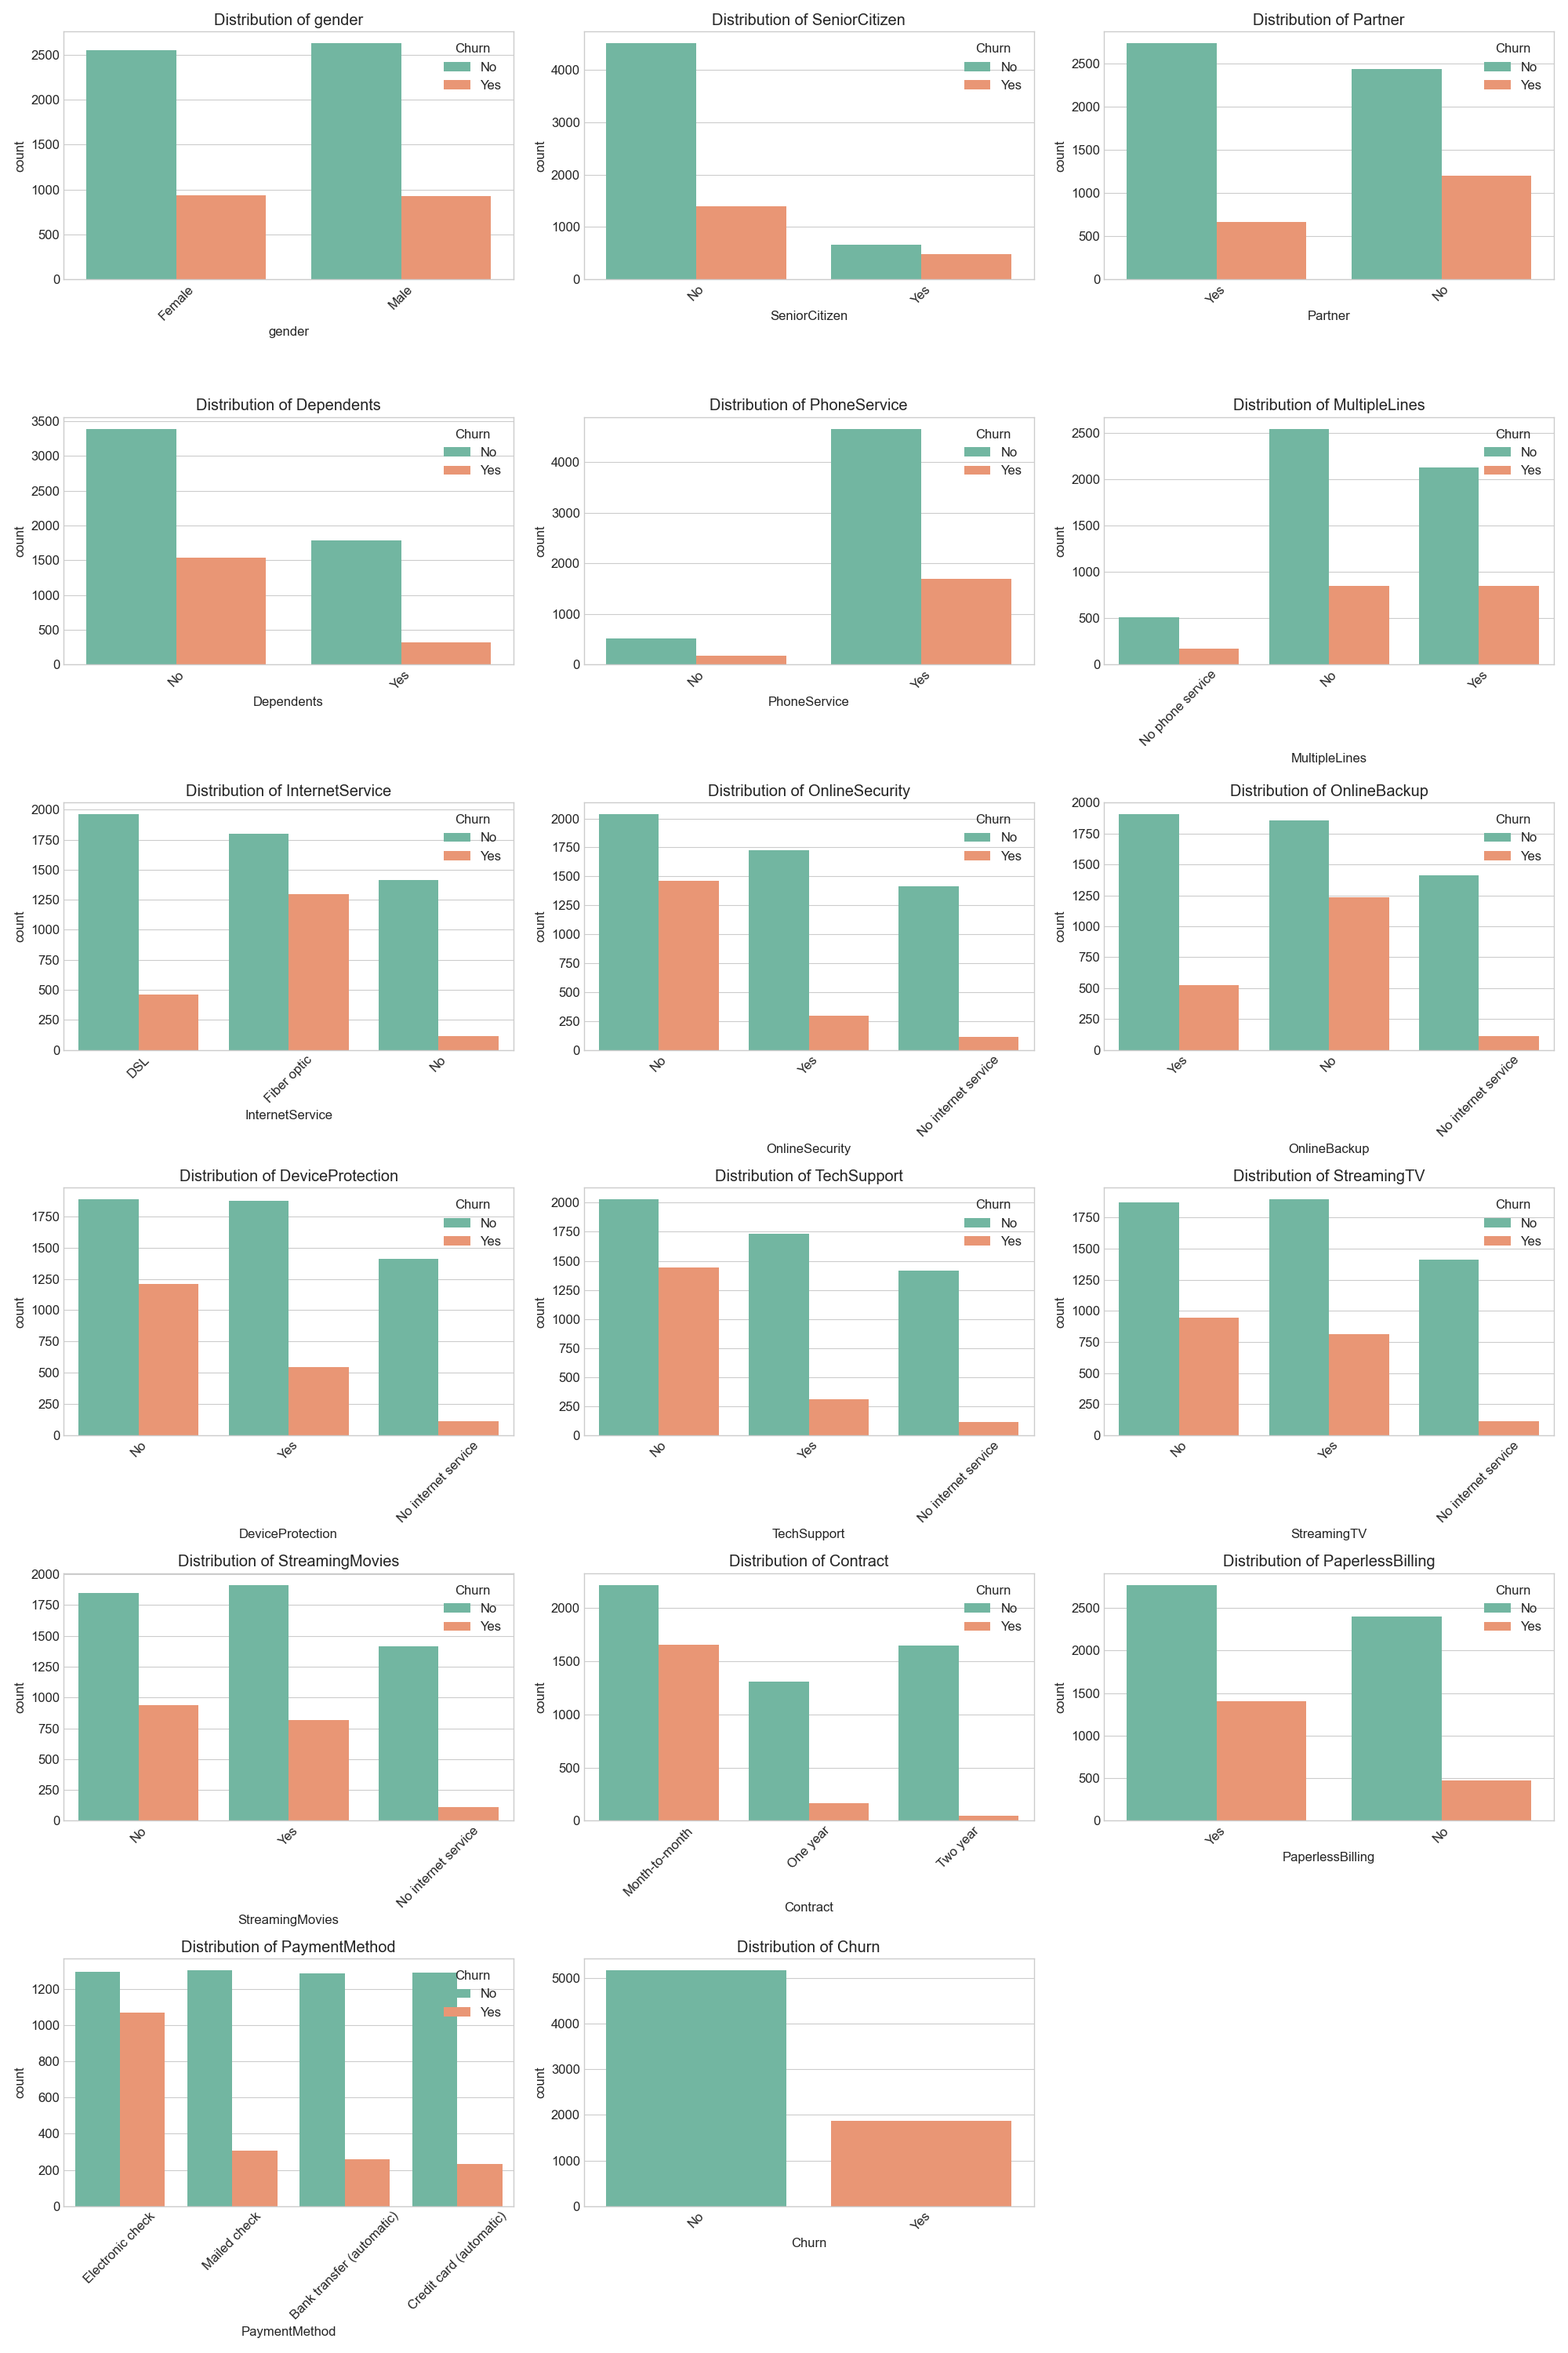
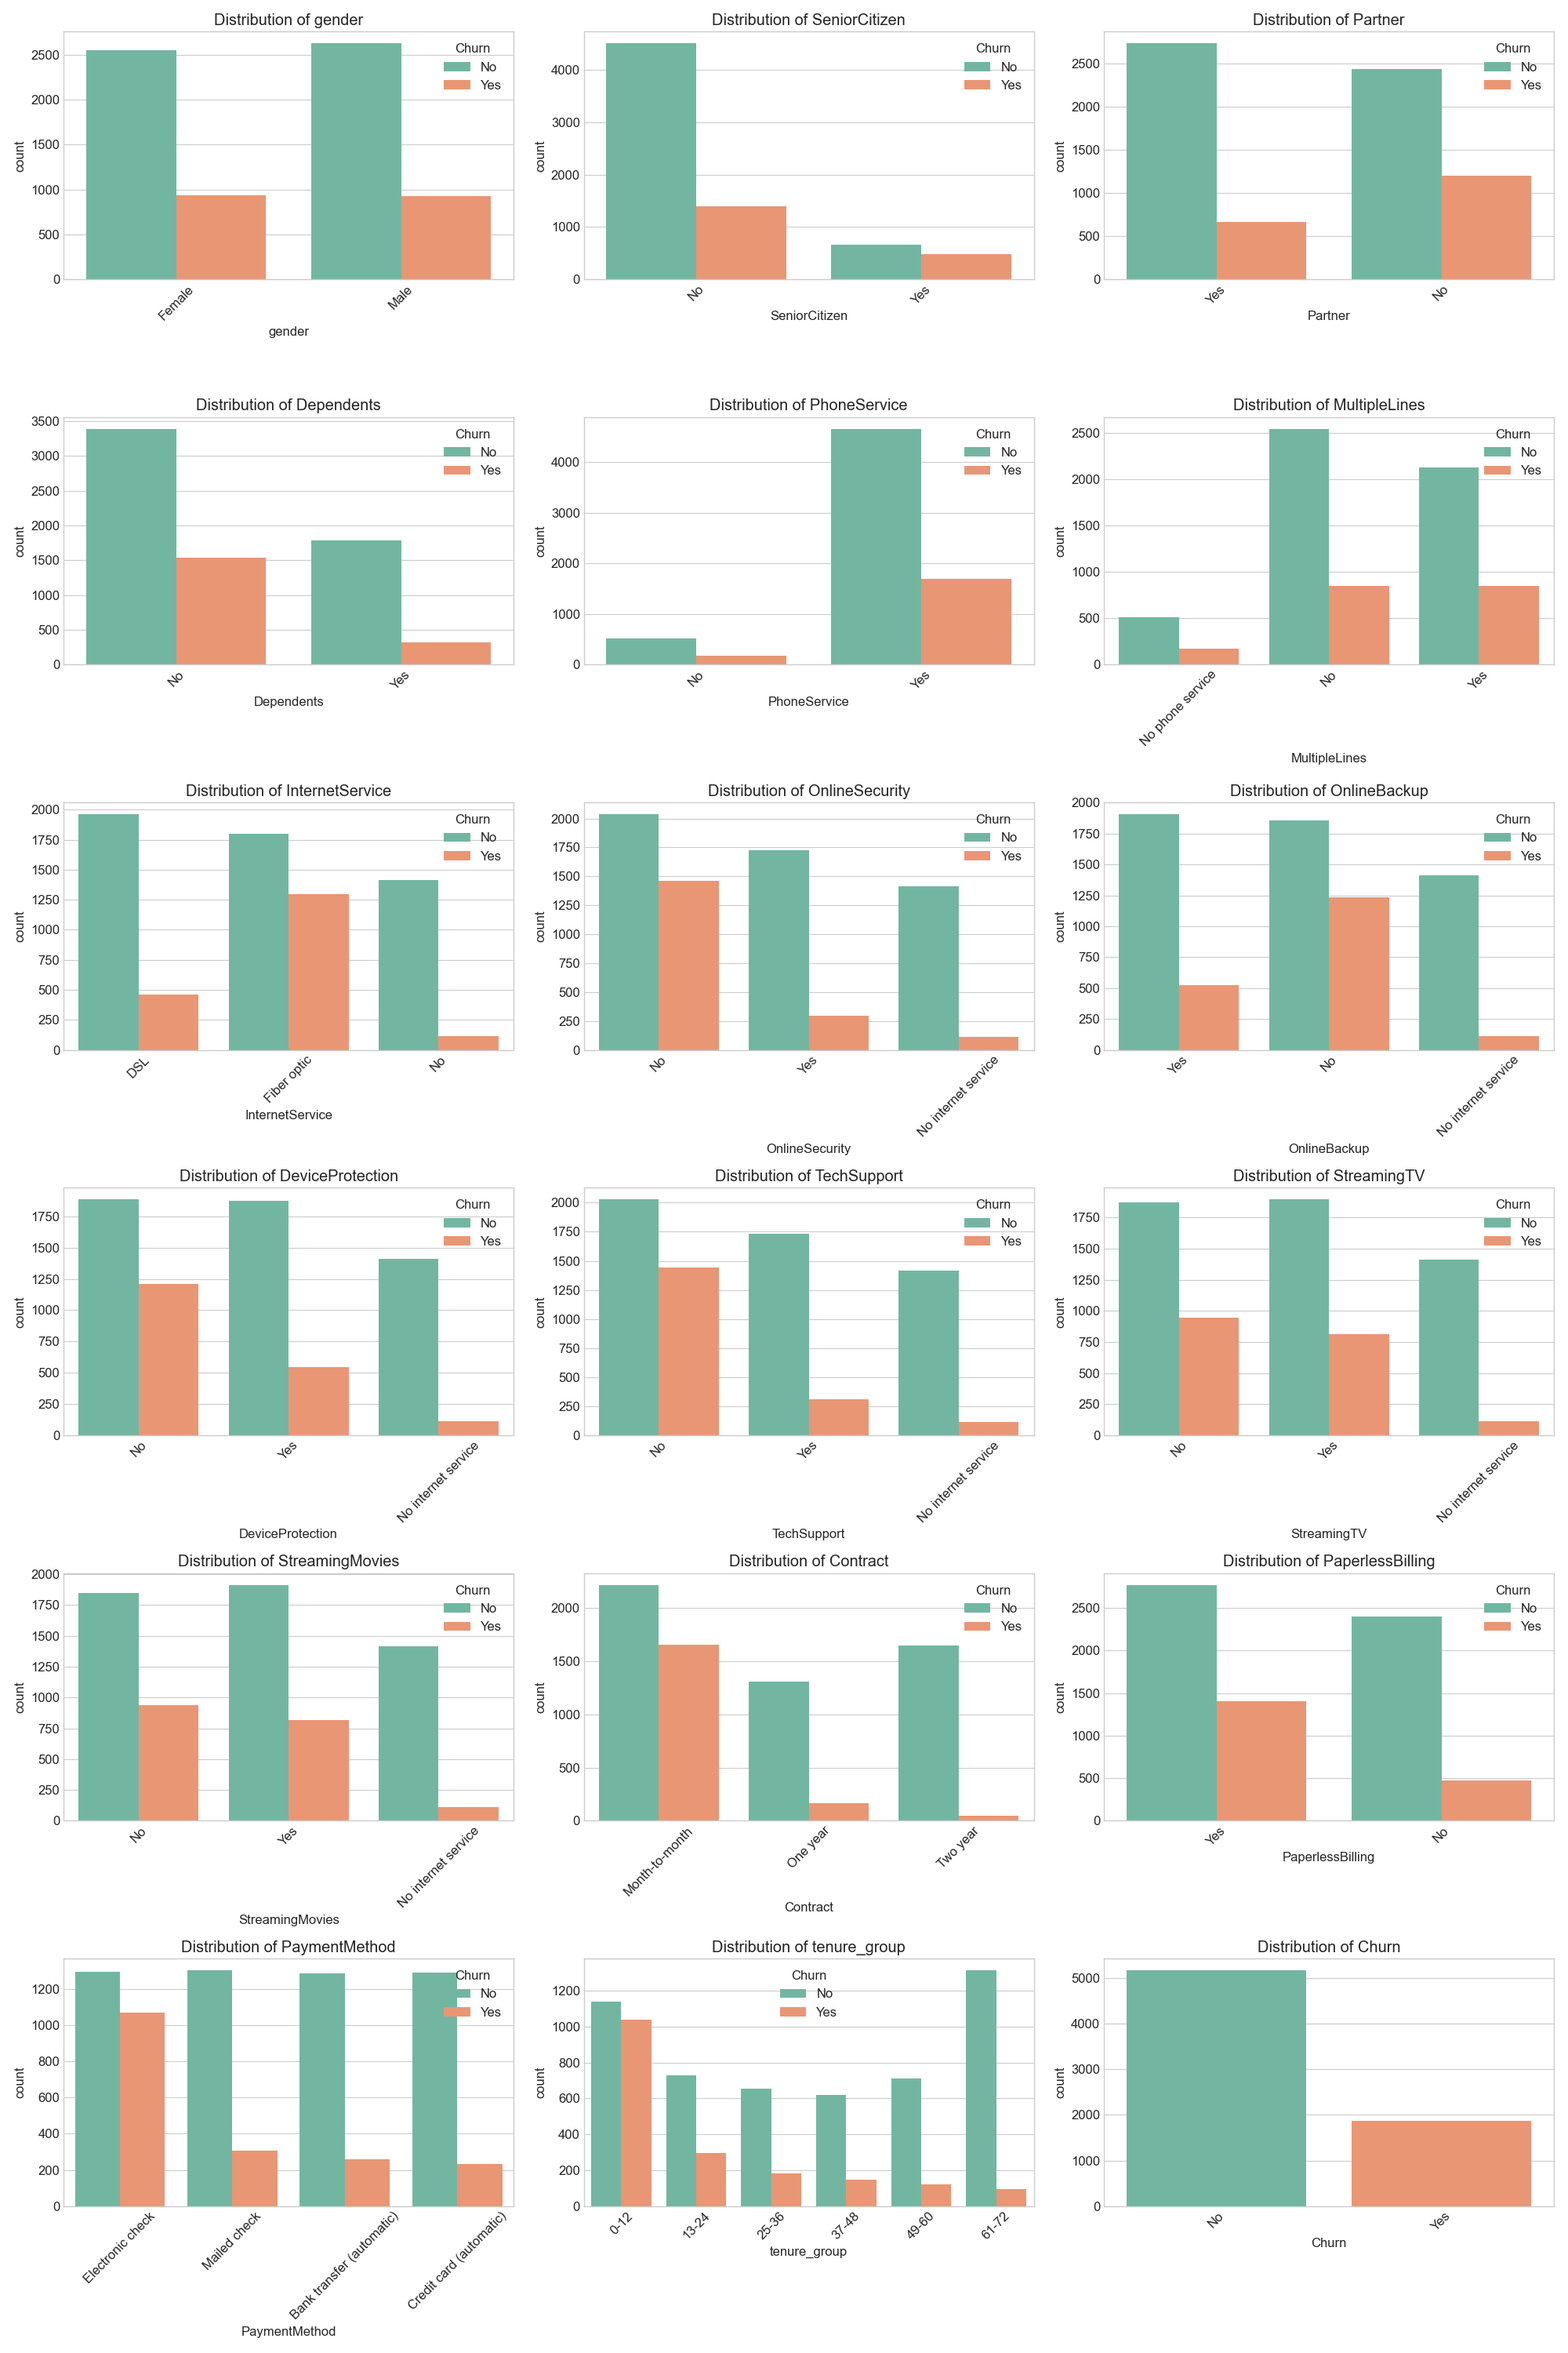
Fixed correlation heatmap and incuded further analysis using tenure_group

Changed region(s): [[0.341, 0.837, 0.651, 0.961], [0.682, 0.837, 0.992, 0.961]]

diff --git a/Analysis/scripts/generate_correlation_heatmap.py b/Analysis/scripts/generate_correlation_heatmap.py
@@ -1,0 +1,60 @@
+#!/usr/bin/env python3
+
+import sys
+import os
+import pandas as pd
+import numpy as np
+import matplotlib.pyplot as plt
+import seaborn as sns
+
+# Add the project root directory to the Python path
+sys.path.append(os.path.abspath(os.path.join(os.path.dirname(__file__), '../..')))
+
+from utils.data_preprocessing import load_telco_data, prepare_data_for_analysis
+
+def generate_correlation_heatmap(df):
+    """Generate correlation heatmap"""
+    # Select only important columns to reduce dimensionality
+    important_columns = ['tenure', 'MonthlyCharges', 'TotalCharges', 'Contract', 
+                        'InternetService', 'OnlineSecurity', 'TechSupport',
+                        'PaperlessBilling', 'PaymentMethod', 'Churn',
+                        'SeniorCitizen', 'Partner', 'Dependents']
+    
+    # Subset the dataframe
+    df_subset = df[important_columns].copy()
+    
+    # Create dummy variables for categorical features
+    df_encoded = pd.get_dummies(df_subset, drop_first=True)
+    
+    # Calculate correlation matrix
+    corr_matrix = df_encoded.corr()
+    
+    # Plot correlation heatmap
+    plt.figure(figsize=(12, 10))
+    sns.heatmap(corr_matrix, annot=True, cmap='coolwarm', center=0,
+                linewidths=0.5, cbar_kws={"shrink": .8}, fmt='.2f', annot_kws={'size': 9})
+    plt.title('Feature Correlation Heatmap')
+    plt.xticks(rotation=90)
+    plt.yticks(rotation=0)
+    
+    # Create images directory if it doesn't exist
+    os.makedirs('../images', exist_ok=True)
+    
+    # Save the plot
+    plt.savefig('../images/correlation_heatmap.png', dpi=150)
+    plt.close()
+
+def main():
+    """Main function"""
+    print("Loading data...")
+    df = load_telco_data('../../data/WA_Fn-UseC_-Telco-Customer-Churn.csv')
+    
+    print("Preparing data...")
+    df_analysis = prepare_data_for_analysis(df)
+    
+    print("Generating correlation heatmap...")
+    generate_correlation_heatmap(df_analysis)
+    print("Done! Check the correlation heatmap in ../images/correlation_heatmap.png")
+
+if __name__ == "__main__":
+    main() 

diff --git a/Analysis/scripts/exploratory_data_analysis.py b/Analysis/scripts/exploratory_data_analysis.py
@@ -215,10 +215,11 @@ def correlation_analysis(df):
     
     # Plot correlation heatmap
     plt.figure(figsize=(16, 14))
-    mask = np.triu(np.ones_like(corr_matrix, dtype=bool))
-    sns.heatmap(corr_matrix, mask=mask, annot=False, cmap='coolwarm', center=0,
-                linewidths=0.5, cbar_kws={"shrink": .8})
+    sns.heatmap(corr_matrix, annot=True, cmap='coolwarm', center=0,
+                linewidths=0.5, cbar_kws={"shrink": .8}, fmt='.2f', annot_kws={'size': 8})
     plt.title('Feature Correlation Heatmap')
+    plt.xticks(rotation=90)
+    plt.yticks(rotation=0)
     plt.tight_layout()
     plt.savefig('../images/correlation_heatmap.png')
     
@@ -392,31 +393,10 @@ def main():
     # Prepare data for analysis
     df_analysis = prepare_data_for_analysis(df)
     
-    # Perform basic EDA
-    basic_eda(df_analysis)
-    
-    # Clean the data (performed by the utility, just show report)
-    data_cleaning(df_analysis)
-    
-    # Visualize categorical features
-    visualize_categorical_features(df_analysis)
-    
-    # Visualize numerical features
-    visualize_numerical_features(df_analysis)
-    
-    # Correlation analysis
+    # Only run correlation analysis
+    print("Generating correlation heatmap...")
     correlation_analysis(df_analysis)
-    
-    # Feature importance
-    feature_importance(df_analysis)
-    
-    # Customer segments analysis
-    customer_segments_analysis(df_analysis)
-    
-    # Create comprehensive summary
-    comprehensive_summary()
-    
-    print("\nAnalysis completed. Results saved to ../docs/ and ../images/ directories.")
+    print("Done! Check the correlation heatmap in ../images/correlation_heatmap.png")
 
 if __name__ == "__main__":
     main() 

diff --git a/Analysis/docs/dataset_overview.md b/Analysis/docs/dataset_overview.md
@@ -1,41 +1,42 @@
 # Telco Customer Churn Dataset Overview
 
-## Shape: (7043, 21)
+## Shape: (7043, 22)
 
 ## Data Types
 ```
-customerID           object
-gender               object
-SeniorCitizen         int64
-Partner              object
-Dependents           object
-tenure                int64
-PhoneService         object
-MultipleLines        object
-InternetService      object
-OnlineSecurity       object
-OnlineBackup         object
-DeviceProtection     object
-TechSupport          object
-StreamingTV          object
-StreamingMovies      object
-Contract             object
-PaperlessBilling     object
-PaymentMethod        object
-MonthlyCharges      float64
-TotalCharges         object
-Churn                object
+customerID            object
+gender                object
+SeniorCitizen         object
+Partner               object
+Dependents            object
+tenure                 int64
+PhoneService          object
+MultipleLines         object
+InternetService       object
+OnlineSecurity        object
+OnlineBackup          object
+DeviceProtection      object
+TechSupport           object
+StreamingTV           object
+StreamingMovies       object
+Contract              object
+PaperlessBilling      object
+PaymentMethod         object
+MonthlyCharges       float64
+TotalCharges         float64
+Churn                 object
+tenure_group        category
 ```
 
 ## Summary Statistics
 ```
-       SeniorCitizen       tenure  MonthlyCharges
-count    7043.000000  7043.000000     7043.000000
-mean        0.162147    32.371149       64.761692
-std         0.368612    24.559481       30.090047
-min         0.000000     0.000000       18.250000
-25%         0.000000     9.000000       35.500000
-50%         0.000000    29.000000       70.350000
-75%         0.000000    55.000000       89.850000
-max         1.000000    72.000000      118.750000
+            tenure  MonthlyCharges  TotalCharges
+count  7043.000000     7043.000000   7043.000000
+mean     32.371149       64.761692   2279.734304
+std      24.559481       30.090047   2266.794470
+min       0.000000       18.250000      0.000000
+25%       9.000000       35.500000    398.550000
+50%      29.000000       70.350000   1394.550000
+75%      55.000000       89.850000   3786.600000
+max      72.000000      118.750000   8684.800000
 ```

diff --git a/Analysis/docs/data_cleaning.md b/Analysis/docs/data_cleaning.md
@@ -2,27 +2,28 @@
 
 ## Missing Values Before Cleaning
 ```
-customerID          0
-gender              0
-SeniorCitizen       0
-Partner             0
-Dependents          0
-tenure              0
-PhoneService        0
-MultipleLines       0
-InternetService     0
-OnlineSecurity      0
-OnlineBackup        0
-DeviceProtection    0
-TechSupport         0
-StreamingTV         0
-StreamingMovies     0
-Contract            0
-PaperlessBilling    0
-PaymentMethod       0
-MonthlyCharges      0
-TotalCharges        0
-Churn               0
+customerID           0
+gender               0
+SeniorCitizen        0
+Partner              0
+Dependents           0
+tenure               0
+PhoneService         0
+MultipleLines        0
+InternetService      0
+OnlineSecurity       0
+OnlineBackup         0
+DeviceProtection     0
+TechSupport          0
+StreamingTV          0
+StreamingMovies      0
+Contract             0
+PaperlessBilling     0
+PaymentMethod        0
+MonthlyCharges       0
+TotalCharges         0
+Churn                0
+tenure_group        11
 ```
 
 ## Duplicate Rows: 0

diff --git a/Analysis/docs/categorical_features_insights.md b/Analysis/docs/categorical_features_insights.md
@@ -193,3 +193,18 @@ Electronic check           0.547146  0.452854
 Mailed check               0.808933  0.191067
 ```
 
+## tenure_group
+
+Churn rate by tenure_group:
+
+```
+Churn               No       Yes
+tenure_group                    
+0-12          0.523218  0.476782
+13-24         0.712891  0.287109
+25-36         0.783654  0.216346
+37-48         0.809711  0.190289
+49-60         0.855769  0.144231
+61-72         0.933902  0.066098
+```
+
